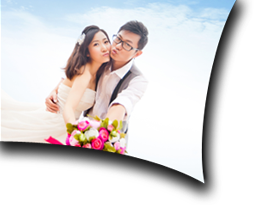
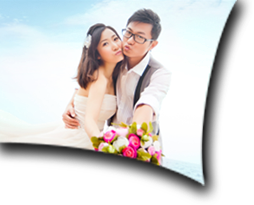
旋转圆心新头像
新头像

diff --git a/index.css b/index.css
@@ -163,20 +163,20 @@ i {
   src: local('Broadway BT'), url("Broadway.woff") format('woff');
 }
 html {
-  height: 100%;
   font-size: 62.5%;
+  overflow-y: auto;
+  -webkit-overflow-scrolling: touch;
 }
 body {
-  height: 100%;
+  overflow-x: hidden;
+  min-height: 500px;
   background-color: #3b0104;
   background-repeat: repeat-y;
   background-size: 100% auto;
   background-position: 0 0.5em;
   background-image: url("img/bg1x.png");
-  background-image: -webkit-image-set(url("img/bg1x.png") 1x, url("img/bg2x.png") 2x);
   font: 100%/1.5 Hiragino Sans GB, WenQuanYi Micro Hei, arial, \5B8B\4F53, sans-serif;
   color: #333;
-  overflow-x: hidden;
 }
 a {
   color: #333;
@@ -190,8 +190,8 @@ header {
   padding-right: 10%;
   color: #fff;
   font-size: 2em;
-  line-height: 7em;
-  text-shadow: 0 0 0.5em #fff, 0 0 0.3em #de1900, 0 0 0.2em #ffe5a8;
+  line-height: 5.5em;
+  text-shadow: 0 0 0.6em #fff, 0 0 0.4em #de1900, 0 0 0.3em #ffe5a8;
   text-align: right;
 }
 header p {
@@ -210,24 +210,24 @@ header img {
 article {
   position: relative;
   font-size: 1em;
-  padding: 2em 2em 1em;
+  padding: 0.7em 2em 1.5em;
   margin: 0.5em 1.5em 2em;
   color: #e72900;
-  border-radius: 5em;
+  border-radius: 4em;
   background-color: #fff;
-  -webkit-filter: drop-shadow(0 0 1.5em rgba(255,255,255,0.8));
+  -webkit-filter: drop-shadow(0 0 20px rgba(255,255,255,0.9));
   z-index: 5;
 }
 article strong {
   display: block;
   font-size: 1.6em;
-  line-height: 1.5em;
+  line-height: 1.4em;
   text-indent: 1em;
 }
 article p {
-  font-size: 1.3em;
+  font-size: 1.5em;
   text-indent: 2em;
-  line-height: 1.5em;
+  line-height: 1.4em;
 }
 article .indent0 {
   text-indent: 0;
@@ -243,6 +243,10 @@ article i {
   border-style: solid;
   border-color: transparent transparent #fff;
   z-index: -1;
+}
+article .tran3 {
+  left: 3.5em;
+  -webkit-transform: rotate(18deg);
 }
 article img {
   display: block;
@@ -265,6 +269,7 @@ figure {
   margin-bottom: 1.5em;
 }
 figure img {
+  display: none;
   box-shadow: 0 0 8px #000;
   border-radius: 1px;
 }
@@ -272,8 +277,7 @@ figure .img1 {
   position: absolute;
   left: 1.8em;
   top: 0;
-  height: 55%;
-  -webkit-transform: rotate(-7deg);
+  height: 52%;
   z-index: 4;
 }
 figure .img2 {
@@ -281,7 +285,6 @@ figure .img2 {
   right: 1.8em;
   top: 0;
   height: 49%;
-  -webkit-transform: rotate(5deg);
   z-index: 3;
 }
 figure .img3 {
@@ -289,7 +292,6 @@ figure .img3 {
   left: 2.3em;
   top: 50%;
   height: 52%;
-  -webkit-transform: rotate(-8deg);
   z-index: 2;
 }
 figure .img4 {
@@ -297,8 +299,34 @@ figure .img4 {
   right: 2.2em;
   bottom: 0;
   height: 100%;
-  -webkit-transform: rotate(4deg);
   z-index: 1;
+}
+.imgs img {
+  display: block;
+}
+.imgs .img1 {
+  -webkit-transform: rotateZ(-367deg);
+  -webkit-animation: img1 800ms forwards;
+  -webkit-backface-visibility: hidden;
+  -webkit-perspective: 1000;
+}
+.imgs .img2 {
+  -webkit-transform: rotateZ(355deg);
+  -webkit-animation: img2 800ms forwards;
+  -webkit-backface-visibility: hidden;
+  -webkit-perspective: 1000;
+}
+.imgs .img3 {
+  -webkit-transform: rotateZ(-368deg);
+  -webkit-animation: img3 800ms forwards;
+  -webkit-backface-visibility: hidden;
+  -webkit-perspective: 1000;
+}
+.imgs .img4 {
+  -webkit-transform: rotateZ(356deg);
+  -webkit-animation: img4 800ms forwards;
+  -webkit-backface-visibility: hidden;
+  -webkit-perspective: 1000;
 }
 .tac {
   text-align: center;
@@ -315,4 +343,106 @@ figure .img4 {
 .last a {
   display: inline-block;
   color: #fff;
+}
+@-webkit-keyframes img1 {
+  0% {
+    opacity: 0;
+    -webkit-transform: rotateZ(0);
+  }
+  30% {
+    opacity: 0.8;
+    -webkit-transform: rotateZ(0);
+  }
+  70% {
+    opacity: 1;
+    -webkit-transform: rotateZ(-360deg);
+  }
+  100% {
+    opacity: 1;
+    -webkit-transform: rotateZ(-367deg);
+  }
+}
+@-webkit-keyframes img2 {
+  0% {
+    opacity: 0;
+    -webkit-transform: rotateZ(0);
+  }
+  30% {
+    opacity: 0.3;
+    -webkit-transform: rotateZ(0);
+  }
+  80% {
+    opacity: 0.8;
+    -webkit-transform: rotateZ(-348deg);
+  }
+  100% {
+    opacity: 1;
+    -webkit-transform: rotateZ(-355deg);
+  }
+}
+@-webkit-keyframes img3 {
+  0% {
+    opacity: 0;
+    -webkit-transform: rotateZ(0);
+  }
+  30% {
+    opacity: 0.3;
+    -webkit-transform: rotateZ(0);
+  }
+  90% {
+    opacity: 0.8;
+    -webkit-transform: rotateZ(-360deg);
+  }
+  100% {
+    opacity: 1;
+    -webkit-transform: rotateZ(-368deg);
+  }
+}
+@-webkit-keyframes img4 {
+  0% {
+    opacity: 0;
+  }
+  40% {
+    opacity: 0.3;
+  }
+  100% {
+    opacity: 1;
+  }
+}
+.card {
+  color: rgba(0,0,0,0);
+  margin: 0.5em 2em 3.5em;
+  background: none;
+  -webkit-filter: drop-shadow(0 0 0 rgba(255,255,255,0));
+}
+.card div {
+  position: absolute;
+  width: 100%;
+  height: 100%;
+  box-sizing: border-box;
+  padding: 0.7em 2em 1.5em;
+  top: 0;
+  left: 0;
+  color: #e72900;
+  border-radius: 4em;
+  background-color: #fff;
+  -webkit-filter: drop-shadow(0 0 20px rgba(255,255,255,0.9));
+  -webkit-transform-origin: 3.5em -2.5em;
+}
+.card .pao {
+  -webkit-animation: pao 1s linear forwards;
+}
+@-webkit-keyframes pao {
+  0%, 2.5% {
+    -webkit-transform: rotateZ(-30deg);
+  }
+  32.5%, 35% {
+    -webkit-transform: rotateZ(10deg);
+  }
+  65%, 67.5% {
+    -webkit-transform: rotateZ(-5deg);
+  }
+  97.5%, 100% {
+    -webkit-transform: rotateZ(0deg);
+  }
 }

diff --git a/index.html b/index.html
@@ -2,11 +2,12 @@
 <html lang="en">
 <head>
     <meta charset="UTF-8">
-    <title>“吴炜清 庄冬荀”结婚典礼-请柬</title>
+    <title>吴♥庄联婚</title>
     <meta content="width=device-width,user-scalable=no" name="viewport">
-    <meta name="apple-mobile-web-app-capable" content="yes">
     <meta name="Author" contect="koala">  
     <link rel="stylesheet" href="index.css">
+    <link rel="apple-touch-icon" sizes="114x114" href="apple-touch-icon114.png" />
+    <link rel="apple-touch-icon" sizes="57x57" href="apple-touch-icon57.png" />
 </head>
 <body>
 	
@@ -14,35 +15,49 @@
 		<p>吴先生 <span>&#38;</span> 庄小姐</p>
 		<img src="img/4501.png" alt="吴炜清 庄冬荀邀请您~">
     </header>
-    <article>
-    	<strong>请柬</strong>
+    <article class="card">
+    	<strong>请柬:</strong>
     	<p>谨订于2014年公历8月29日(农历八月初五)星期五下午6时,在珠海 益健美食大广场3楼XXX厅举行“吴炜清 庄冬荀”结婚典礼，敬备喜筵 ！</p>
-    	<p>期待您抽空参加我们的结婚典礼！！</p>
-		<i></i>
+    	<p class="indent0">期待您抽空参加我们的结婚典礼！！</p>
+        <div class="pao" id="pao">
+            <strong>请柬:</strong>
+            <p>谨订于2014年公历8月29日(农历八月初五)星期五下午6时,在珠海 益健美食大广场3楼XXX厅举行“吴炜清 庄冬荀”结婚典礼，敬备喜筵 ！</p>
+            <p class="indent0">期待您抽空参加我们的结婚典礼！！</p>
+            <i></i>
+        </div>
     </article>
-	<figure>
+	<figure id="imgs">
 		<img class="img1" src="img/4502.jpg" alt="幸福见证"class="img2">
 		<img class="img2"  src="img/4503.jpg" alt="幸福见证"class="img2">
 		<img class="img3"  src="img/4504.jpg" alt="幸福见证" class="img2">
 		<img class="img4" src="img/4505.jpg" alt="幸福见证" class="img2">
 	</figure>
     <article>
-        <strong>交通指引</strong>
+        <strong>交通指引:</strong>
         <p class="indent0">珠海市香洲区拱北北岭岭南路68号正邦广场3楼XXX厅(沃尔玛拱 北店楼上)</p>
         <p class="indent0">酒店电话 <span type="tel">(0756)6838888</span> <span type="tel">(0756)6838882</span> </p>
         <a href="http://l.map.qq.com/6246273790?m"><img src="img/map.png" alt="正邦广场"></a>
-        <a class="tac" href="http://l.map.qq.com/6246273790?m">(点击打开地图)</a>
-        <i></i>
+        <a class="tac" href="http://l.map.qq.com/6246273790?m">(触摸地图导航)</a>
+        <i class="tran3"></i>
     </article>
     <article class="last">
         <strong>再次温馨提示</strong>
-        <p>宴会时间:  2014年公历8月29日(农历八月初五)星期五下午6时</p>
-        <p>宴会地点:  <a href="http://l.map.qq.com/6246273790?m" >珠海市香洲区拱北北岭岭南路68号正邦广场3楼XXX厅(点击导航位置)</a></p>
-        <p>宴会接待:  吴煌<span type="tel">15920485924</span>,</p>
+        <p>宴会时间: 2014年公历8月29日(农历八月初五)星期五下午6时</p>
+        <p>宴会地点:  <a href="http://l.map.qq.com/6246273790?m" >珠海市香洲区拱北北岭岭南路68号<br>正邦广场3楼XXX厅(导航位置)</a></p>
+        <p>宴会接待: <br>吴煌<span type="tel">15920485924</span>,</p>
         <p>吴煌<span type="tel">15920485924</span></p>
     </article>
-    
-
-
 </body>
+<script type="text/javascript">
+    window.onload = function(){
+        func1();
+        func2();
+    }
+    function func1(){
+        document.getElementById('imgs').className = "imgs"
+    }
+    function func2(){
+        document.getElementById('paos').className = "pao"
+    }
+</script>
 </html>
